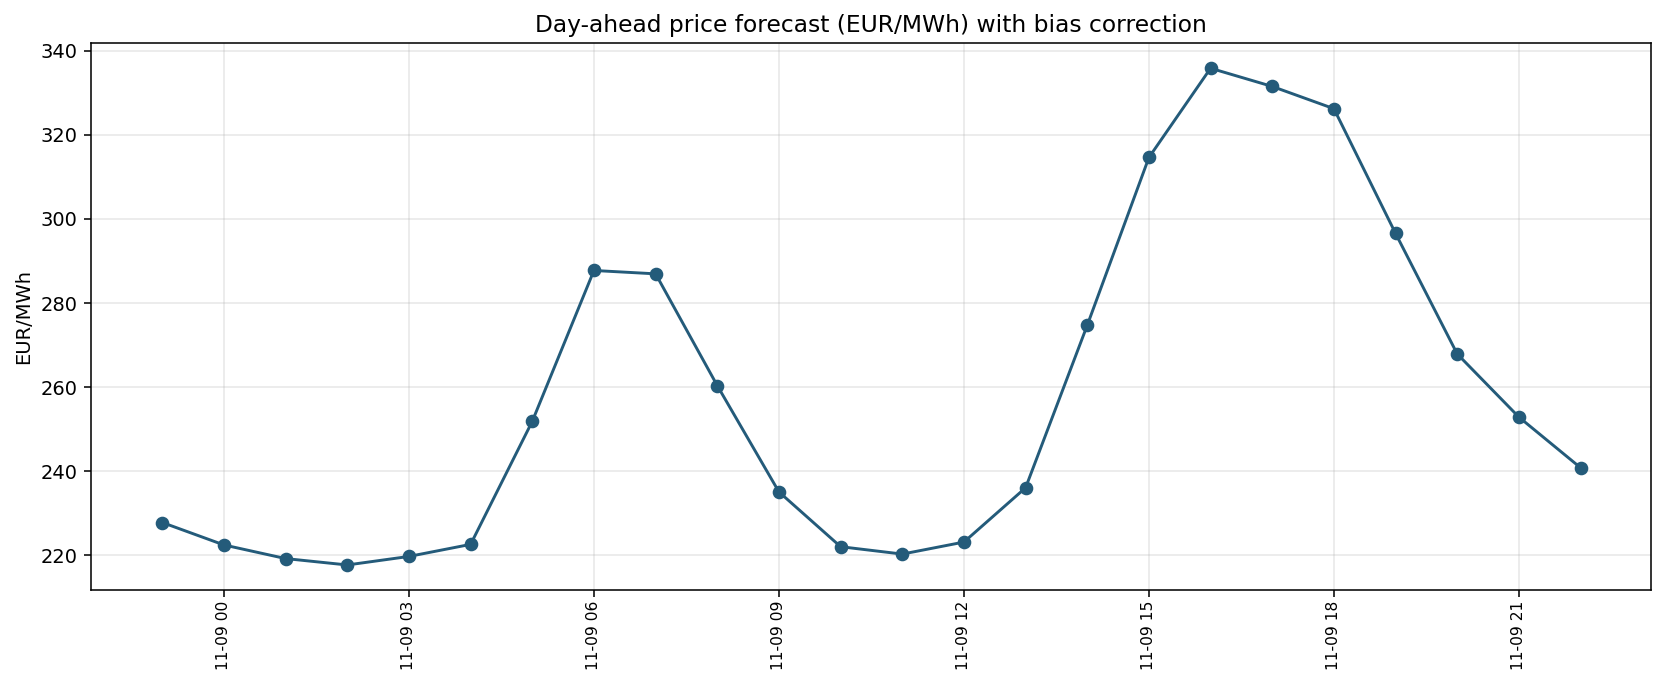
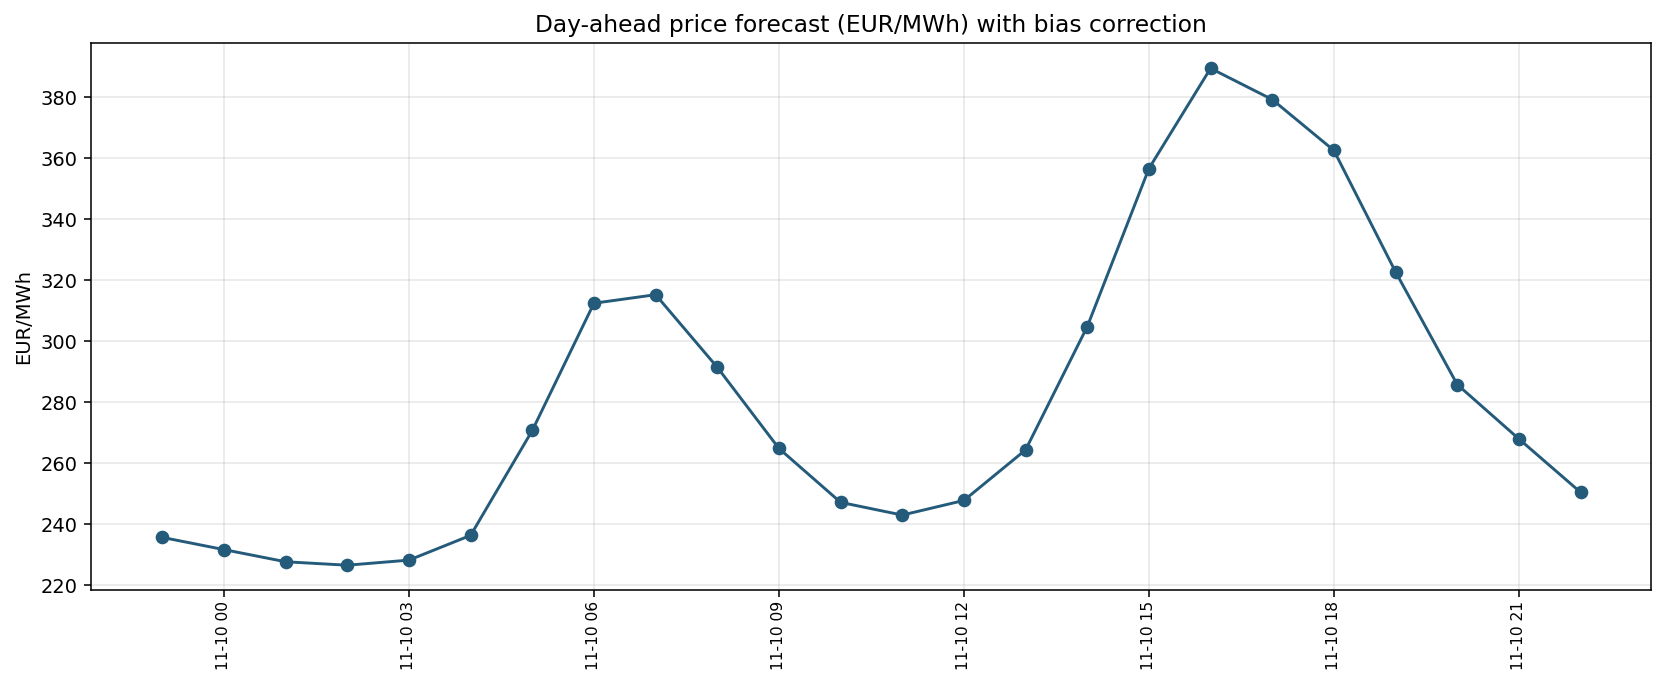
chore: daily forecast update

diff --git a/README.md b/README.md
@@ -195,9 +195,9 @@ Licence: MIT (code). Underlying market data remain subject to their original lic
 
 ## Live daily forecast
 
-**Generated (UTC):** 2026-11-08 00:21  
-**Based on data up to (UTC):** 2026-11-08 22:00  
-**Forecast horizon (UTC):** 2026-11-08 23:00 to 2026-11-09 22:00  
+**Generated (UTC):** 2026-11-08 17:28  
+**Based on data up to (UTC):** 2026-11-09 22:00  
+**Forecast horizon (UTC):** 2026-11-09 23:00 to 2026-11-10 22:00  
 **Protocol:** Conservative (external_shift = 24) + hourly bias correction
 
 ### Forecast chart
@@ -208,30 +208,30 @@ Licence: MIT (code). Underlying market data remain subject to their original lic
 
 | Hour (UTC) | Forecast (EUR/MWh) | Bias |
 |------------|--------------------|------|
-| 2026-11-08 23:00 | 227.73 | -30.27 |
-| 2026-11-09 00:00 | 222.39 | -28.41 |
-| 2026-11-09 01:00 | 219.15 | -26.32 |
-| 2026-11-09 02:00 | 217.63 | -25.46 |
-| 2026-11-09 03:00 | 219.66 | -25.87 |
-| 2026-11-09 04:00 | 222.53 | -14.40 |
-| 2026-11-09 05:00 | 251.81 | -12.29 |
-| 2026-11-09 06:00 | 287.69 | -18.26 |
-| 2026-11-09 07:00 | 286.89 | -22.13 |
-| 2026-11-09 08:00 | 260.30 | -21.08 |
-| 2026-11-09 09:00 | 235.01 | -20.19 |
-| 2026-11-09 10:00 | 221.98 | -21.20 |
-| 2026-11-09 11:00 | 220.22 | -22.87 |
-| 2026-11-09 12:00 | 223.08 | -21.48 |
-| 2026-11-09 13:00 | 236.00 | -20.62 |
-| 2026-11-09 14:00 | 274.66 | -28.24 |
-| 2026-11-09 15:00 | 314.57 | -31.64 |
-| 2026-11-09 16:00 | 335.80 | -28.35 |
-| 2026-11-09 17:00 | 331.47 | -23.65 |
-| 2026-11-09 18:00 | 326.18 | -28.09 |
-| 2026-11-09 19:00 | 296.50 | -27.52 |
-| 2026-11-09 20:00 | 267.83 | -19.71 |
-| 2026-11-09 21:00 | 252.81 | -22.98 |
-| 2026-11-09 22:00 | 240.76 | -27.12 |
+| 2026-11-09 23:00 | 235.66 | -24.62 |
+| 2026-11-10 00:00 | 231.66 | -25.38 |
+| 2026-11-10 01:00 | 227.67 | -23.82 |
+| 2026-11-10 02:00 | 226.54 | -22.98 |
+| 2026-11-10 03:00 | 228.21 | -23.12 |
+| 2026-11-10 04:00 | 236.33 | -13.72 |
+| 2026-11-10 05:00 | 270.72 | -14.68 |
+| 2026-11-10 06:00 | 312.44 | -26.76 |
+| 2026-11-10 07:00 | 315.24 | -33.61 |
+| 2026-11-10 08:00 | 291.44 | -32.59 |
+| 2026-11-10 09:00 | 264.83 | -31.59 |
+| 2026-11-10 10:00 | 247.15 | -31.19 |
+| 2026-11-10 11:00 | 242.98 | -31.87 |
+| 2026-11-10 12:00 | 247.78 | -31.04 |
+| 2026-11-10 13:00 | 264.36 | -30.94 |
+| 2026-11-10 14:00 | 304.77 | -39.42 |
+| 2026-11-10 15:00 | 356.60 | -54.13 |
+| 2026-11-10 16:00 | 389.46 | -63.35 |
+| 2026-11-10 17:00 | 379.23 | -53.86 |
+| 2026-11-10 18:00 | 362.53 | -45.52 |
+| 2026-11-10 19:00 | 322.71 | -36.00 |
+| 2026-11-10 20:00 | 285.79 | -25.63 |
+| 2026-11-10 21:00 | 267.95 | -27.22 |
+| 2026-11-10 22:00 | 250.45 | -24.84 |
 
 ### Previous forecasts vs realized prices
 
@@ -243,7 +243,7 @@ Licence: MIT (code). Underlying market data remain subject to their original lic
 | `forecast_2026-11-03.csv` | 24 | 16.60 | 22.06 |
 | `forecast_2026-11-04.csv` | 24 | 15.31 | 22.30 |
 | `forecast_2026-11-05.csv` | 24 | 37.02 | 38.45 |
-| `forecast_2026-11-07.csv` | 23 | 17.29 | 26.03 |
+| `forecast_2026-11-07.csv` | 24 | 16.96 | 25.55 |
 
 ![Forecast vs actual](outputs/figures/latest_vs_actual.png)
 
